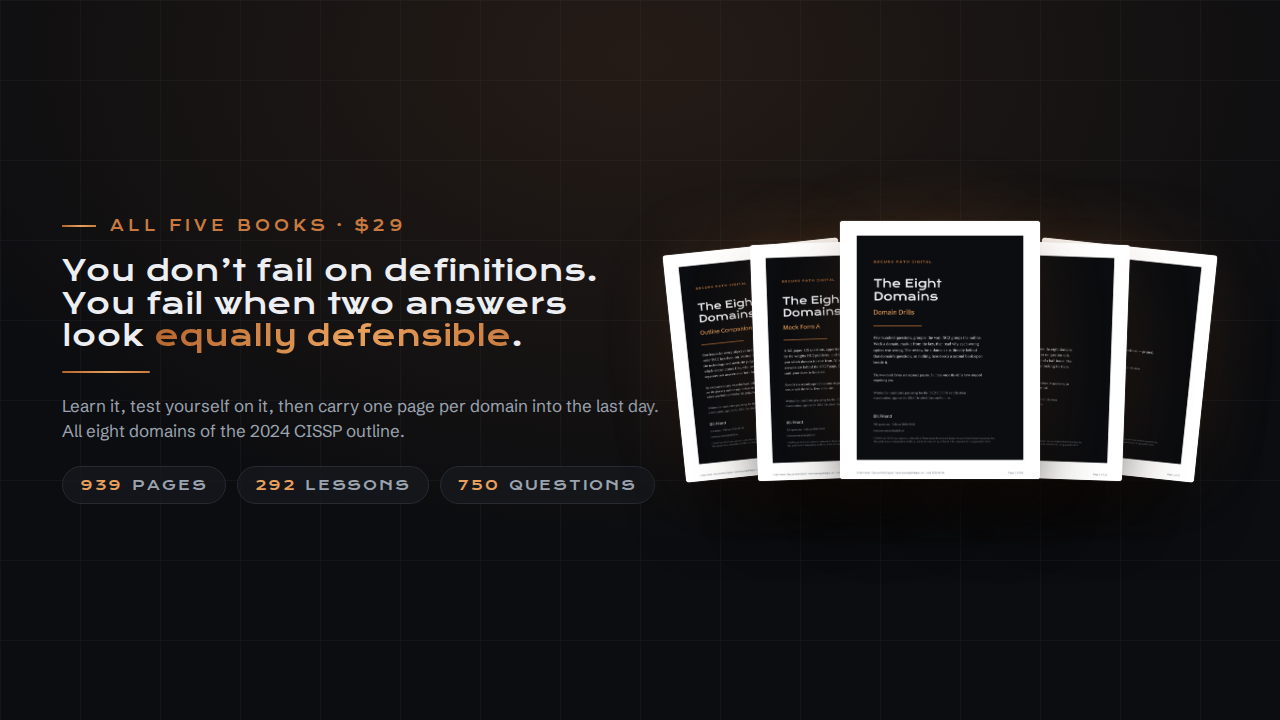
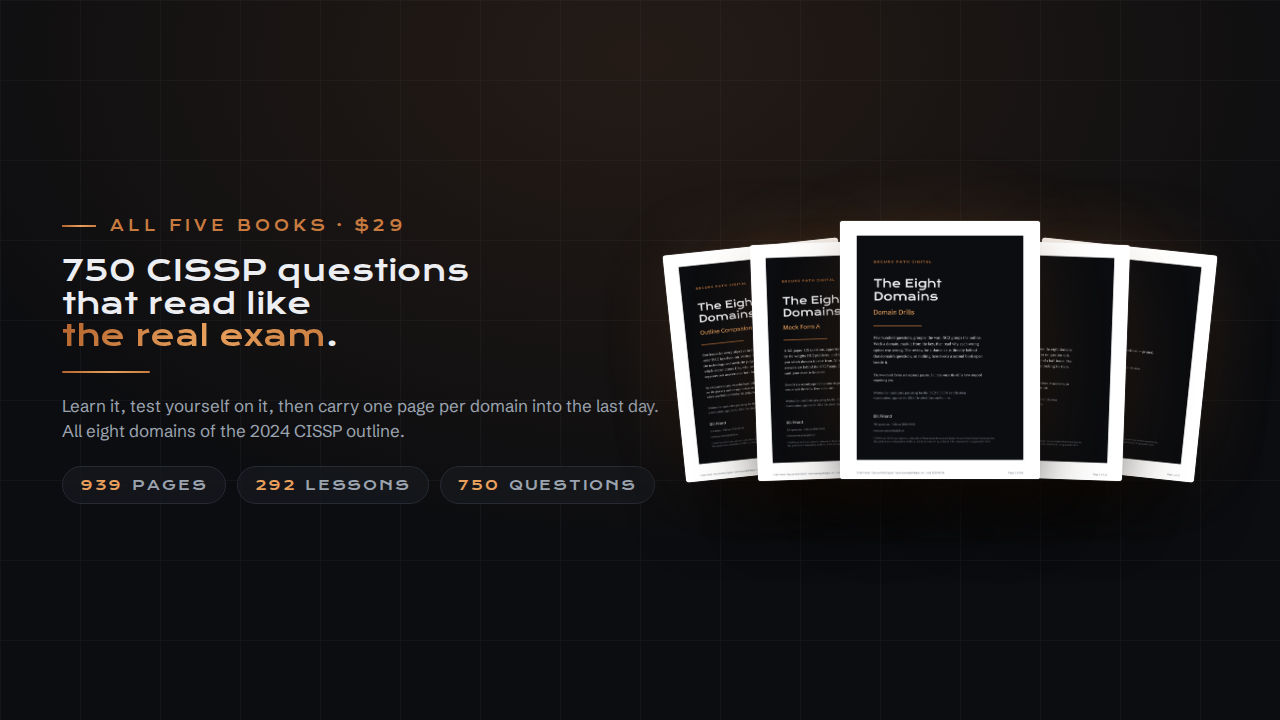
Offer page leads with what the reader gets, not how candidates fail
Hero: 750 CISSP questions that read like the real exam (same headline as
Gumroad and the hero artwork). Second section reframed from 'Why most prep
fails' to 'Why these questions'. og image refreshed from the new cover.

Changed region(s): [[0.0312, 0.3361, 0.4688, 0.4889]]

diff --git a/src/app/page.tsx b/src/app/page.tsx
@@ -154,8 +154,8 @@ const FACTS = [
 const METHOD = [
   {
     icon: "ic-scale",
-    h: "The keyword trap",
-    sub: "Cheap question banks build habits that fail on exam day.",
+    h: "Decisions, not definitions",
+    sub: "Each question is a business decision with something at stake.",
     p: "Most free apps ask whether you remember what an acronym stands for. The real exam assumes you know the term and tests whether you know who owns the risk, which control comes first, or when a compensating control is acceptable. These questions make you read like a risk manager, not a technician.",
   },
   {
@@ -202,13 +202,15 @@ export default function GuidesPage() {
           <p className="vault-label">
             A CISSP practice examination &middot; five books and an app &middot; from {BUY.price}
           </p>
-          {/* The headline is shared with the apex, the Gumroad page and the
-              hero artwork. Change it in all four or in none. */}
+          {/* The headline is shared with the Gumroad page and the hero artwork
+              (securepathdigital-site marketing_images.py g_hero, and the og image).
+              Change it in all of them or in none. */}
+          {/* Since 2026-10-26 it leads with what the reader gets. It used to open on how
+              candidates fail ("You don't fail the CISSP because..."); Bill: it "leads
+              with describing how to fail". */}
           <h1>
-            You don&apos;t fail the CISSP because you forgot a definition.
-            <br />
-            You fail because two answers look{" "}
-            <span className="grad-copper">completely defensible</span>.
+            750 CISSP questions that read like{" "}
+            <span className="grad-copper">the real exam</span>.
           </h1>
           {/* The first sentence names the product. The page went without one
               for a while: "there are 750 questions of that second kind here"
@@ -218,8 +220,8 @@ export default function GuidesPage() {
             the way the exam writes them, each one set in a company with something at stake,
             and a reason on every wrong answer. It comes as five printable books for {BUY.price},
             or the same five plus the free practice app on this site unlocked to all 750 for{" "}
-            {BUY_PLUS.price}. The point is to meet the question that would have beaten you at your
-            kitchen table, where there is time to close the gap.
+            {BUY_PLUS.price}. You learn to pick the better of two good answers, which is what the
+            exam scores, and you practice it at your kitchen table before the day that counts.
           </p>
           {/* The buy button says what it buys. "See the packs" did not. */}
           <div className="herocta">
@@ -245,11 +247,11 @@ export default function GuidesPage() {
 
       <section className="block">
         <div className="wrap">
-          <p className="vault-label">Why most prep fails</p>
-          <h2>Most prep trains you for a different exam</h2>
+          <p className="vault-label">Why these questions</p>
+          <h2>Written the way the exam asks</h2>
           <p className="sec-intro">
-            You can clear a question bank at 90% and still read a real question four times
-            without knowing what it wants. Here is why, and what changes it.
+            The exam asks for judgment: who owns the risk, which control comes first. Three
+            things make these questions train that.
           </p>
 
           <div className="method">
